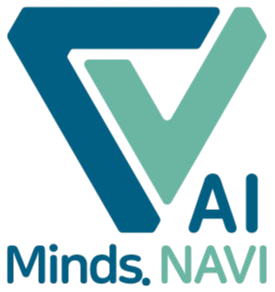
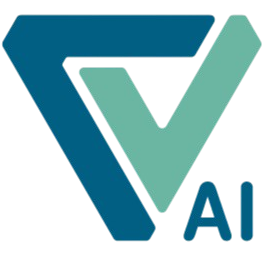
medsec/posts: redesign quote card, rewrite hero, drop '자체', clean AI mark, fix post skeleton
- quote: flat gray box → dark-navy editorial pull-quote (big quote glyph, teal-highlighted key phrase, ruled citation)
- hero copy rewritten (증명 관점, 구체 성과)
- replace '자체 시험성적서' → '시험성적서' across posts (titles·body·mnai editordata) + portfolio
- 마인즈내비 AI mark → clean V+AI symbol (no wordmark text)
- post loading skeleton: match real cover-less PostTitle (icon 56 → chips → title → tags), 712 column + py-16, so title position no longer jumps

diff --git a/src/app/(pages)/portfolio/(pages)/medsec/page.tsx b/src/app/(pages)/portfolio/(pages)/medsec/page.tsx
@@ -4,14 +4,14 @@ import { getBaseMetadata } from "@/utils/seo";
 
 export const metadata: Metadata = getBaseMetadata({
     title: "의료기기 사이버보안 및 인프라",
-    description: "임상시험 허가·품목 인허가·디지털의료기기 GMP를 위한 사이버보안 자체 시험성적서 작성과 인프라 설계·운영.",
+    description: "임상시험 허가·품목 인허가·디지털의료기기 GMP를 위한 사이버보안 시험성적서 작성과 인프라 설계·운영.",
     path: "/portfolio/medsec",
 });
 
 const DUTIES = [
     {
         t: "시험성적서 문서 작성 담당",
-        d: "KS X IEC 62443-4-2 35개 항목 제품 매핑 · 제조자 자체 시험성적서화",
+        d: "KS X IEC 62443-4-2 35개 항목 제품 매핑 · 제조자 시험성적서화",
     },
     {
         t: "실제 시스템·인프라 구현 담당",
@@ -77,15 +77,16 @@ export default function MedSecPortfolioPage() {
                 <h1 className="text-[3rem] font-bold leading-tight tracking-tight text-[#191918] m:text-[2rem]">
                     의료기기 사이버보안 및 인프라 담당
                 </h1>
-                <p className="max-w-[46rem] text-[1.15rem] leading-relaxed text-gray-600 m:text-base">
-                    임상시험 허가 · 품목 인허가 · 디지털의료기기 GMP를 위한 <b className="text-[#191918]">사이버보안 자체 시험성적서</b> 작성과, 그 근거가 되는{" "}
-                    <b className="text-[#191918]">인프라 설계·운영</b>을 직접 담당한 작업들입니다.
+                <p className="max-w-[48rem] text-[1.15rem] leading-relaxed text-gray-600 m:text-base">
+                    서류로 채우는 사이버보안이 아니라, 제품을 실제로 그렇게 <b className="text-[#191918]">설계·구현해 증명</b>합니다.{" "}
+                    KS X IEC 62443-4-2 <b className="text-[#191918]">시험성적서 작성</b>과 그 근거가 되는 <b className="text-[#191918]">시스템·인프라 구현</b>을 직접 담당해,{" "}
+                    임상시험 허가 · 의료기기 변경 허가를 통과시킨 작업들입니다.
                 </p>
             </header>
 
             {/* 배경 · 왜 필요한가 (식약처 가이드라인 근거) */}
             <section className="mt-16">
-                <h2 className="mb-4 text-2xl font-bold text-[#191918]">왜 사이버보안 자체 시험성적서인가</h2>
+                <h2 className="mb-4 text-2xl font-bold text-[#191918]">왜 사이버보안 시험성적서인가</h2>
                 <ul className="max-w-[52rem] space-y-2 text-[15px] leading-relaxed text-gray-700 m:text-sm">
                     <li className="flex gap-2">
                         <span className="text-[#2f5aa8]">·</span>
@@ -104,12 +105,14 @@ export default function MedSecPortfolioPage() {
                         <span>서류가 아니라 <b className="text-[#191918]">제품을 그렇게 설계했음의 증명</b> → 문서 작성 + 실제 구현이 곧 근거</span>
                     </li>
                 </ul>
-                <figure className="mt-5 max-w-[52rem] rounded-xl border-l-[3px] border-l-[#2f5aa8] bg-[#f4f3f1] px-5 py-4">
-                    <blockquote className="text-[14px] leading-relaxed text-gray-700">
-                        “의료기기의 해킹, 정보 유출 등 사이버보안 위협사례가 꾸준히 보고되고 있고, 이러한 위협사례는 재산적 손실뿐만 아니라 환자 생명에 직접적인 위해를 줄 수 있어 의료기기의 사이버보안에 대한 중요성이 부각되고 있다.”
+                <figure className="relative mt-7 max-w-[52rem] overflow-hidden rounded-2xl bg-[#0f2f4a] px-9 py-8 m:px-6 m:py-6">
+                    <span aria-hidden className="pointer-events-none absolute -top-3 left-5 select-none font-serif text-[110px] leading-none text-white/10">“</span>
+                    <blockquote className="relative text-[1.15rem] font-medium leading-[1.75] tracking-[-0.01em] text-white m:text-[1rem]">
+                        의료기기의 해킹, 정보 유출 등 사이버보안 위협사례가 꾸준히 보고되고 있고, 이러한 위협사례는 재산적 손실뿐만 아니라 <span className="text-[#7fd4c1]">환자 생명에 직접적인 위해</span>를 줄 수 있어 의료기기의 사이버보안에 대한 중요성이 부각되고 있다.
                     </blockquote>
-                    <figcaption className="mt-2 text-[13px] text-gray-500">
-                        — 식품의약품안전처 「의료기기의 사이버보안 허가·심사 가이드라인」(민원인 안내서, 2025.1)
+                    <figcaption className="relative mt-6 flex items-center gap-2.5 text-[13px] text-white/55">
+                        <span className="h-px w-6 bg-white/30" />
+                        식품의약품안전처 「의료기기의 사이버보안 허가·심사 가이드라인」 · 민원인 안내서 2025.1
                     </figcaption>
                 </figure>
             </section>

diff --git a/src/app/(pages)/post/[slug]/loading.tsx b/src/app/(pages)/post/[slug]/loading.tsx
@@ -1,4 +1,6 @@
 // 라우트 전환 시 보이는 글 상세 스켈레톤 (App Router Suspense fallback)
+// 실제 PostTitle(커버 없는 기본형: 아이콘 56 → 카테고리·날짜 칩 → 제목 → 태그)과
+// 콘텐츠 폭(712)·여백(py-16)을 맞춰, 로딩→렌더 시 제목 위치가 튀지 않게 한다.
 import DrawerSkeleton from "@/components/PostListDrawer/DrawerSkeleton";
 
 const Bar = ({ className = "", style }: { className?: string; style?: React.CSSProperties }) => (
@@ -11,30 +13,30 @@ export default function Loading() {
             {/* 드로워(열린 상태) 스켈레톤 */}
             <DrawerSkeleton />
 
-            {/* 본문 */}
-            <div className="flex-1">
-                <div className="mx-auto w-full max-w-[720px] px-6 py-16 m:px-4">
-                    {/* 커버 + 아이콘(겹침) */}
-                    <div className="relative">
-                        <Bar className="h-[360px] w-full rounded-basic m:h-56" />
-                        <div
-                            className="absolute -bottom-5 left-1 flex h-[72px] w-[72px] items-center justify-center"
-                            style={{ background: "radial-gradient(closest-side, rgba(255,255,255,0.95) 55%, rgba(255,255,255,0) 100%)" }}
-                        >
-                            {/* 아이콘 자리: pulse(투명도) 없이 불투명 단색 */}
-                            <div className="h-14 w-14 rounded-[12px] bg-[#e3e2df]" />
+            {/* 본문: MDXContent와 동일하게 712 컬럼을 중앙 정렬 + py-16 */}
+            <div className="flex flex-1 justify-center px-10 py-16 m:px-4">
+                <div className="w-[712px] max-w-full m:w-full">
+                    {/* 헤더 (PostTitle 커버 없는 기본형과 동일 순서/간격) */}
+                    <div className="mb-8">
+                        {/* 아이콘(56) — pulse 없이 불투명 단색 */}
+                        <div className="mb-3 h-14 w-14 rounded-[12px] bg-[#e3e2df]" />
+                        {/* 카테고리 · 날짜 칩 */}
+                        <div className="mb-1 flex gap-2">
+                            <Bar className="h-[26px] w-24 rounded-md" />
+                            <Bar className="h-[26px] w-20 rounded-md" />
                         </div>
-                    </div>
-                    {/* 제목 영역 */}
-                    <Bar className="mt-10 h-10 w-3/4" />
-                    <Bar className="mt-3 h-5 w-1/2" />
-                    <div className="mt-3 flex gap-1.5">
-                        <Bar className="h-5 w-14 rounded-md" />
-                        <Bar className="h-5 w-16 rounded-md" />
+                        {/* 제목 (text-40) */}
+                        <Bar className="mt-[11px] h-9 w-3/4" />
+                        {/* 태그 */}
+                        <div className="mt-3 flex gap-1.5">
+                            <Bar className="h-5 w-14 rounded-md" />
+                            <Bar className="h-5 w-16 rounded-md" />
+                            <Bar className="h-5 w-12 rounded-md" />
+                        </div>
                     </div>
 
                     {/* 본문 라인 */}
-                    <div className="mt-10 space-y-3">
+                    <div className="space-y-3">
                         {["100%", "96%", "88%", "70%", "0", "92%", "98%", "60%", "0", "84%", "90%"].map((w, i) =>
                             w === "0" ? (
                                 <div key={i} className="h-3" />

diff --git a/src/components/portfolio/PortfolioListBanner.tsx b/src/components/portfolio/PortfolioListBanner.tsx
@@ -21,11 +21,11 @@ export default function PortfolioListBanner() {
                             </button>
                             <div className="w-full flex flex-col mt-auto">
                                 <label className="text-gray text-base font-bold">의료기기 임상시험 허가 · 품목 인허가</label>
-                                <p className="text-gray-500 text-base">사이버보안 요건을 자체 시험성적서로 갈음해 인허가까지 대응합니다.</p>
+                                <p className="text-gray-500 text-base">사이버보안 요건을 시험성적서로 갈음해 인허가까지 대응합니다.</p>
                                 <hr className="my-4"></hr>
                                 <label className="text-gray text-base font-bold">디지털의료기기 GMP (별표3) 대응</label>
                                 <hr className="my-4"></hr>
-                                <label className="text-gray text-base font-bold">KS X IEC 62443-4-2 자체 시험성적서 작성</label>
+                                <label className="text-gray text-base font-bold">KS X IEC 62443-4-2 시험성적서 작성</label>
                             </div>
                         </div>
                     </div>
